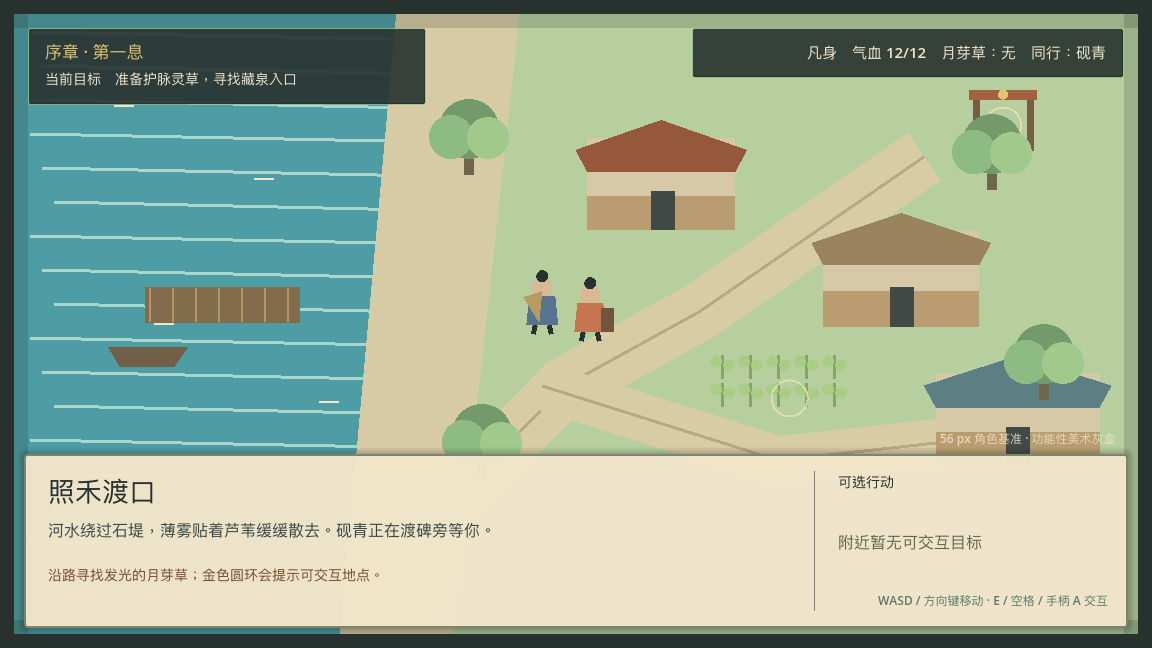
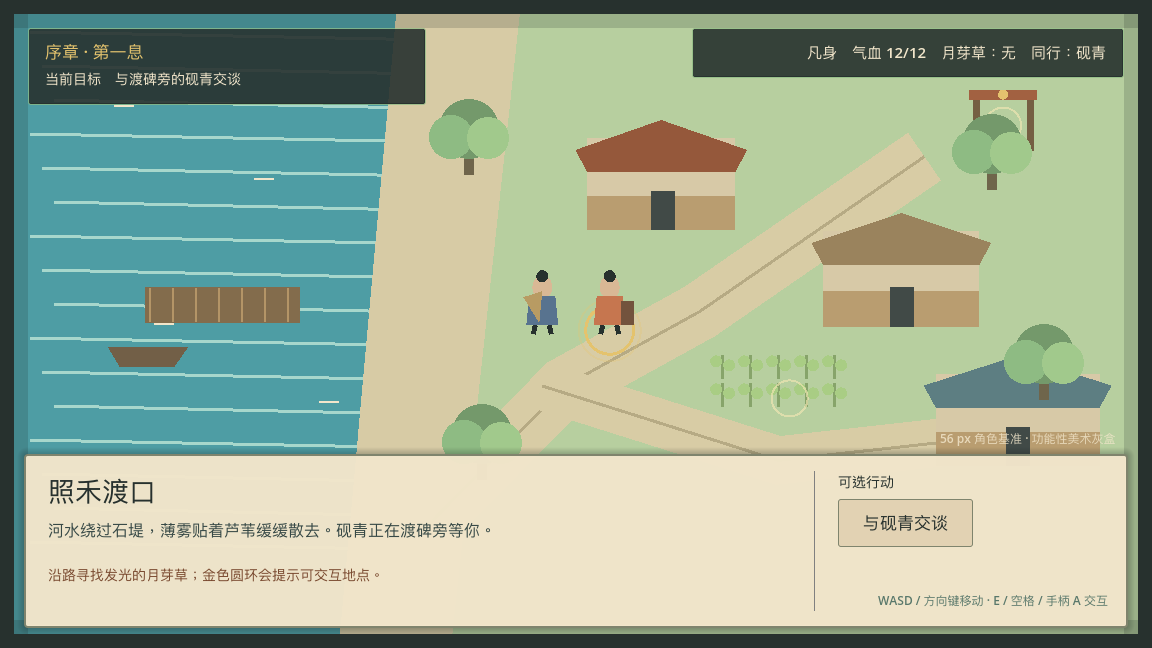
feat: add spatial companion briefing

Changed region(s): [[0.7188, 0.7716, 0.8438, 0.8642], [0.0938, 0.0926, 0.25, 0.1543], [0.5, 0.4012, 0.5625, 0.5556]]

diff --git a/docs/DECISIONS.md b/docs/DECISIONS.md
@@ -25,8 +25,16 @@ last-known-good backup while promoting a verified temporary file. Starting a new
 explicit operation that replaces an existing or unreadable local save.
 
 Schema changes use explicit forward migrations. Save v2 adds companion-support and setback
-state; v1 files are migrated in memory, validated, then rewritten only after the player chooses
-to continue.
+state; save v3 adds the companion-briefing quest flag. V1/v2 files are migrated in memory,
+validated, then rewritten only after the player chooses to continue. Mid-chapter legacy saves
+infer that the required briefing already occurred; ferry saves expose the new conversation.
+
+### 2026-08-01 — Spatial briefing starts the quest
+
+The opening objective first asks the player to approach 砚青 at the ferry marker. The companion
+stays at the marker until the player receives the risk and retreat briefing, then follows during
+exploration. Quest guidance advances from briefing to herb preparation to the spring gate. This
+uses the same proximity and semantic-action path as every other world interaction.
 
 ### 2026-08-01 — Recoverable first-combat failure
 

diff --git a/docs/TESTING.md b/docs/TESTING.md
@@ -5,8 +5,8 @@
 | Boundary | Gate | Current result |
 | --- | --- | --- |
 | Deterministic cultivation rules | pytest + branch coverage, minimum 99% | 50 tests; 100% statements and branches |
-| Godot RPG rules and scenes | headless GDScript harness | 150 assertions passing |
-| Godot RPG chapter path | independent headless E2E | 14 checks: new game → exploration → retreat → battle → breakthrough → resume → replay |
+| Godot RPG rules and scenes | headless GDScript harness | 165 assertions passing |
+| Godot RPG chapter path | independent headless E2E | 16 checks: briefing → exploration → retreat → battle → breakthrough → resume → replay |
 | Evennia commands and world bootstrap | Evennia isolated database harness | command, localization, and bootstrap integration tests passing |
 | Multiplayer release path | real server, two real Telnet clients | 中文注册 → 登录 → 采药 → 修炼 → 协作 → 突破 → 重连持久化 |
 | Browser journey prototype | Vitest and Playwright | 100% unit metrics; 53 Playwright executions passing |

diff --git a/README.md b/README.md
@@ -71,8 +71,8 @@ make test-multiplayer-e2e    # live server + real two-client journey only
 ```
 
 The deterministic multiplayer domain rules have an enforced 99% statement/branch minimum and
-currently reach 100%. Godot behavior is covered by 150 headless rule/scene assertions plus an
-independent 14-check chapter E2E. The MUD adapter has isolated Evennia tests, and its release path
+currently reach 100%. Godot behavior is covered by 165 headless rule/scene assertions plus an
+independent 16-check chapter E2E. The MUD adapter has isolated Evennia tests, and its release path
 is exercised through two real concurrent Telnet clients. The preserved browser prototype retains
 its own 100% unit result and 53-execution Playwright matrix. See [testing](docs/TESTING.md),
 [architecture](docs/ARCHITECTURE.md), and the [vertical-slice contract](docs/VERTICAL_SLICE.md).

diff --git a/docs/PROJECT_CONTEXT.md b/docs/PROJECT_CONTEXT.md
@@ -125,7 +125,7 @@ Nakama may be evaluated later if the product grows into match-based content, ext
 Expand the executable RPG graybox into a complete 90-minute original chapter:
 
 1. top-down movement, collision, and proximity interaction in 照禾渡口 (implemented);
-2. dialogue and quest-state presentation;
+2. proximity companion briefing and dynamic quest-state presentation (implemented; longer dialogue remains);
 3. 月芽田 resource choice;
 4. 藏泉山道 warning, retreat, and companion rescue path (implemented; free path exploration remains);
 5. three regular enemy profiles and one boss;

diff --git a/rpg/README.md b/rpg/README.md
@@ -22,5 +22,8 @@ make test-rpg-e2e
 气血耗尽会由同伴救回渡口，不会形成无法继续的死档。运行时绘制仍只用于验证布局、比例和可读性，
 正式 Sprite Sheet 与 TileSet 将在后续循环加入。
 
+开场任务采用同一套近距离交互：先在渡碑旁与砚青交谈，任务目标随后切换为采药，
+取得月芽草后再指向藏泉山门。砚青会在简报完成前原地等候，之后才跟随主角。
+
 设计合同见 [RPG 基础设计](../docs/design/RPG_FOUNDATION_v0.1.md) 与
 [美术方向 v0.2](../docs/design/ART_DIRECTION_v0.2.md)。

diff --git a/docs/concepts/gameplay-ui-v1/README.md b/docs/concepts/gameplay-ui-v1/README.md
@@ -31,7 +31,8 @@ make capture-rpg-ui
 
 地图占据主画面，章节与状态缩到上方，地点叙事和行动收在底部暖纸面板。渡口、
 河岸、道路、房屋、药田、主角和砚青可以在一个镜头中辨认。主角现在可在河岸
-自由移动；河水、建筑和边界会阻挡移动，药田与山门只在靠近时显示行动。
+自由移动；河水、建筑和边界会阻挡移动，砚青、药田与山门只在靠近时显示行动。
+开场简报完成后砚青才开始跟随，抬头任务依次引导交谈、采药与进山。
 
 ## 藏泉山道战斗
 
